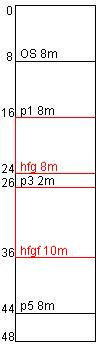
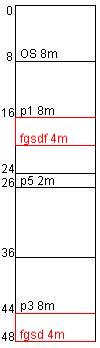
Finalización de la logica

Changed region(s): [[0.12, 0.3448, 0.96, 0.7471], [0.12, 0.8621, 0.96, 1.0]]

diff --git a/07_Asignacion_Memoria/src/LOGIC/Controlador.java b/07_Asignacion_Memoria/src/LOGIC/Controlador.java
@@ -25,6 +25,7 @@ public class Controlador implements ActionListener {
 
     FRM_Venta v;
     int index = 0;
+    int last = 26;
     ArrayList<Integer> espacios = new ArrayList(); // pares tamaño, impares posición
     ArrayList<String> nombres = new ArrayList();
 
@@ -37,17 +38,36 @@ public class Controlador implements ActionListener {
 
     @Override
     public void actionPerformed(ActionEvent e) {
-        if (comprobarExt()) {
+        if (e.getSource().equals(v.btnDelete)) {
+            v.cont.removeAll();
+            v.sp.repaint();
+
+            llenadoBase(true);
+        } else if (comprobarExt()) {
             int size = (int) v.spnTamano.getValue();
             int[] pos = new int[2];
             pos[0] = -1;
             pos[1] = -1;
             if (e.getSource().equals(v.btnBest)) {
-
+                int menor = 48;
+                for (int i = 0; i < espacios.size(); i = i + 2) {
+                    if (espacios.get(i)-size >= 0 && espacios.get(i)-size < menor ) {
+                        menor = espacios.get(i)-size;
+                        pos[0] = espacios.get(i + 1);
+                        last = pos[0] + size;
+                        pos[1] = i;
+                    }
+                }
+                try {
+                    actualizarDibujo(pos, v.txtNombre.getText(), size, v);
+                } catch (IOException ex) {
+                    JOptionPane.showMessageDialog(null, "Error al editar la memoria");
+                }
             } else if (e.getSource().equals(v.btnFirst)) {
                 for (int i = 0; i < espacios.size(); i = i + 2) {
                     if (espacios.get(i) >= size) {
                         pos[0] = espacios.get(i + 1);
+                        last = pos[0] + size;
                         pos[1] = i;
                         break;
                     }
@@ -58,22 +78,56 @@ public class Controlador implements ActionListener {
                     JOptionPane.showMessageDialog(null, "Error al editar la memoria");
                 }
             } else if (e.getSource().equals(v.btnNext)) {
+                boolean a = true;
+                for (int i = 1; i < espacios.size(); i = i + 2) {
+                    if (espacios.get(i) == last) {
+                        pos[0] = espacios.get(i);
+                        last = pos[0] + size;
+                        pos[1] = i - 1;
+                        if (espacios.get(i - 1) >= size) {
+                            try {
+                                actualizarDibujo(pos, v.txtNombre.getText(), size, v);
+                            } catch (IOException ex) {
+                                JOptionPane.showMessageDialog(null, "Error al editar la memoria");
+                            }
+                            a = false;
+                            break;
+                        }
+                    }
+                }
+                if (a) {
+                    for (int i = pos[1]; i < 2 * espacios.size(); i = i + 2) {
+                        int tem = i % espacios.size();
+                        if (espacios.get(tem) >= size) {
+                            pos[0] = espacios.get(tem + 1);
+                            last = pos[0] + size;
+                            pos[1] = tem;
+                            try {
+                                actualizarDibujo(pos, v.txtNombre.getText(), size, v);
+                            } catch (IOException ex) {
+                                JOptionPane.showMessageDialog(null, "Error al editar la memoria");
+                            }
+                            break;
+                        }
+                    }
+                }
 
             } else if (e.getSource().equals(v.btnWorst)) {
-               //
-            } else if (e.getSource().equals(v.btnDelete)) {
-                v.cont.removeAll();
-                v.sp.repaint();
-
-                llenadoBase(true);
+                int may = espacios.get(0);
+                for (int i = 0; i < espacios.size(); i = i + 2) {
+                    if (espacios.get(i) >= may) {
+                        pos[0] = espacios.get(i + 1);
+                        pos[1] = i;
+                        last = pos[0] + size;
+                    }
+                }
+                try {
+                    actualizarDibujo(pos, v.txtNombre.getText(), size, v);
+                } catch (IOException ex) {
+                    JOptionPane.showMessageDialog(null, "Error al editar la memoria");
+                }
             }
-        } else if (e.getSource().equals(v.btnDelete)) {
-            v.cont.removeAll();
-            v.sp.repaint();
-
-            llenadoBase(true);
         }
-
     }
 
     void dibujarBase(int i, FRM_Venta d) throws IOException {
@@ -101,8 +155,8 @@ public class Controlador implements ActionListener {
         // Texto
         k.drawString("OS 8m", 20, 58);
         k.drawString("p1 8m", 20, 115);
-        k.drawString("p3 2m", 20, 185);
-        k.drawString("p5 8m", 20, 310);
+        k.drawString("p5 2m", 20, 185);
+        k.drawString("p3 8m", 20, 310);
 
         k.drawString("0", 6, 15);
         k.drawString("8", 6, 61);
@@ -148,9 +202,10 @@ public class Controlador implements ActionListener {
             nombres.clear();
             nombres.add("OS");
             nombres.add("p1");
-            nombres.add("p3");
             nombres.add("p5");
+            nombres.add("p3");
             index = 0;
+            last = 26;
         }
     }
 
@@ -166,6 +221,9 @@ public class Controlador implements ActionListener {
         if (nombres.contains(n)) {
             JOptionPane.showMessageDialog(null, "El nombre " + n + " ya esta en memoria");
             v.txtNombre.setText(null);
+            v.txtNombre.requestFocus();
+            return false;
+        } else if (espacios.size() == 0) {
             return false;
         } else {
             boolean pru = true;
@@ -181,6 +239,7 @@ public class Controlador implements ActionListener {
             if (!pru) {
                 JOptionPane.showMessageDialog(null, "No hay suficiente tamaño en memoria");
                 v.spnTamano.setValue(0);
+                v.spnTamano.requestFocus();
             }
             return pru;
         }
@@ -235,15 +294,17 @@ public class Controlador implements ActionListener {
     }
 
     void actualizar(int pos[], String name, int size) {
-        nombres.add(name);
+        if (espacios.size() != 0) {
+            nombres.add(name);
 
-        if (size == espacios.get(pos[1])) {
-            espacios.remove(pos[1] + 1);
-            espacios.remove(pos[1]);
-        } else {
-            int ta = espacios.get(pos[1]) - size;
-            espacios.set(pos[1], ta);
-            espacios.set(pos[1] + 1, espacios.get(pos[1] + 1) + size);
+            if (size == espacios.get(pos[1])) {
+                espacios.remove(pos[1] + 1);
+                espacios.remove(pos[1]);
+            } else {
+                int ta = espacios.get(pos[1]) - size;
+                espacios.set(pos[1], ta);
+                espacios.set(pos[1] + 1, espacios.get(pos[1] + 1) + size);
+            }
         }
     }
 }
